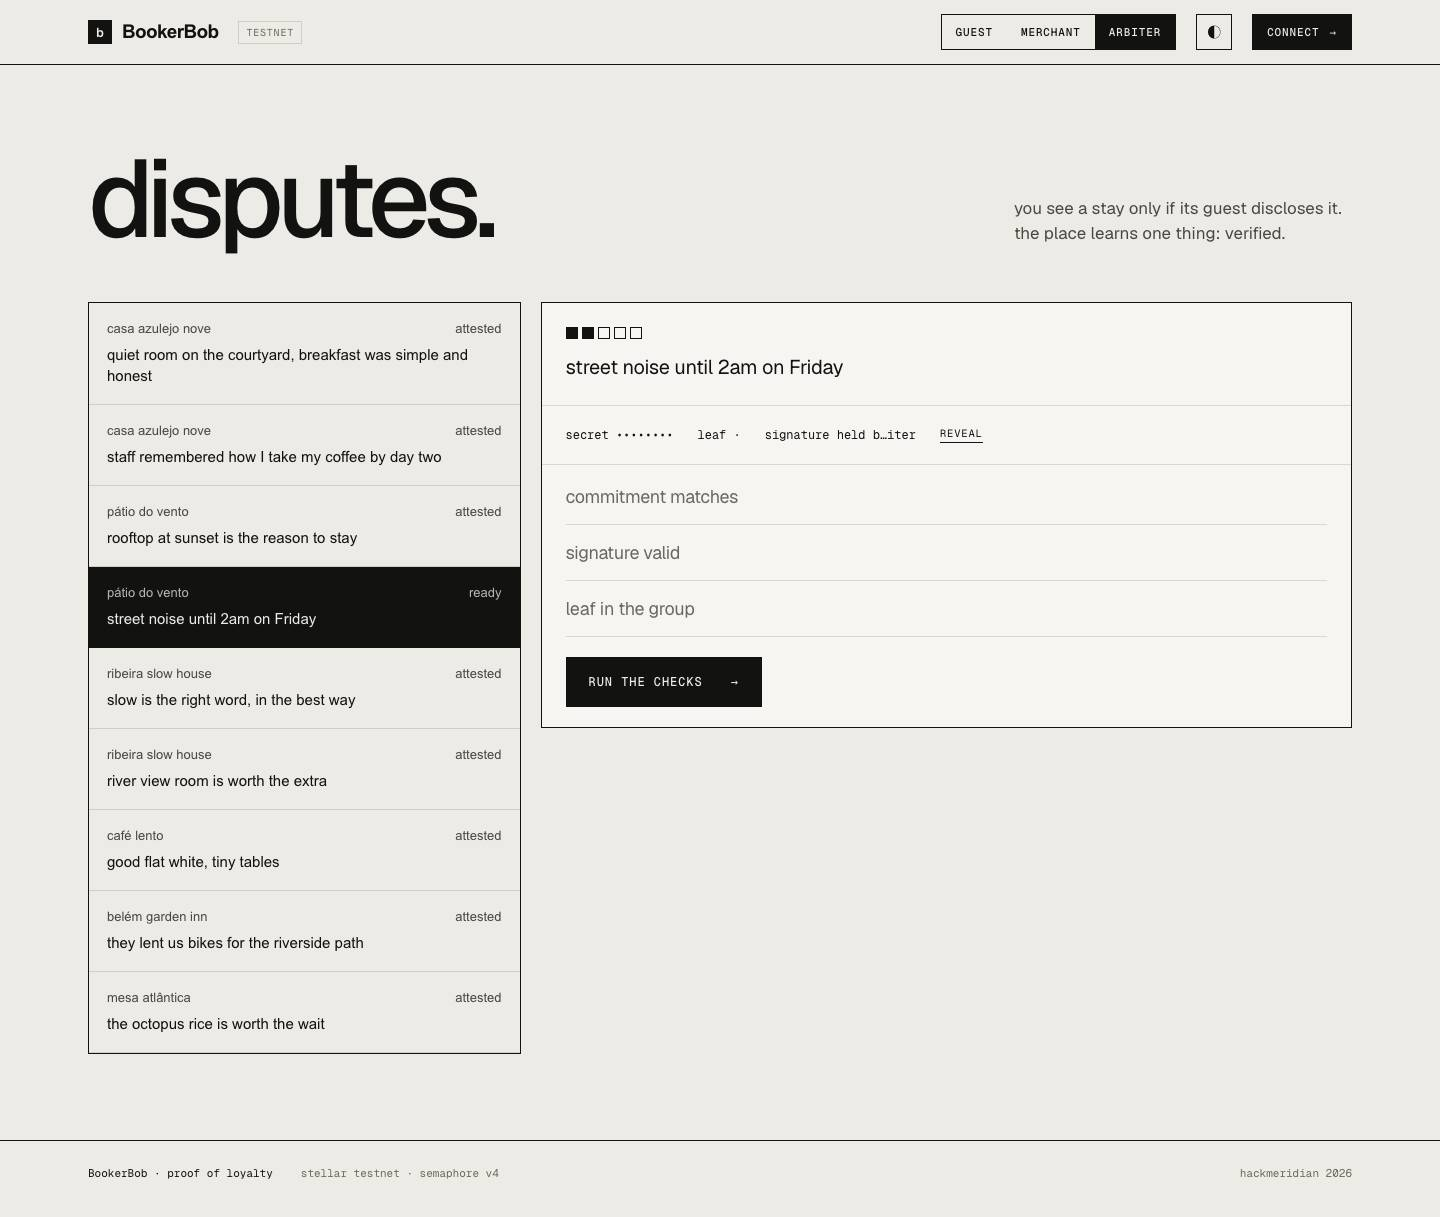
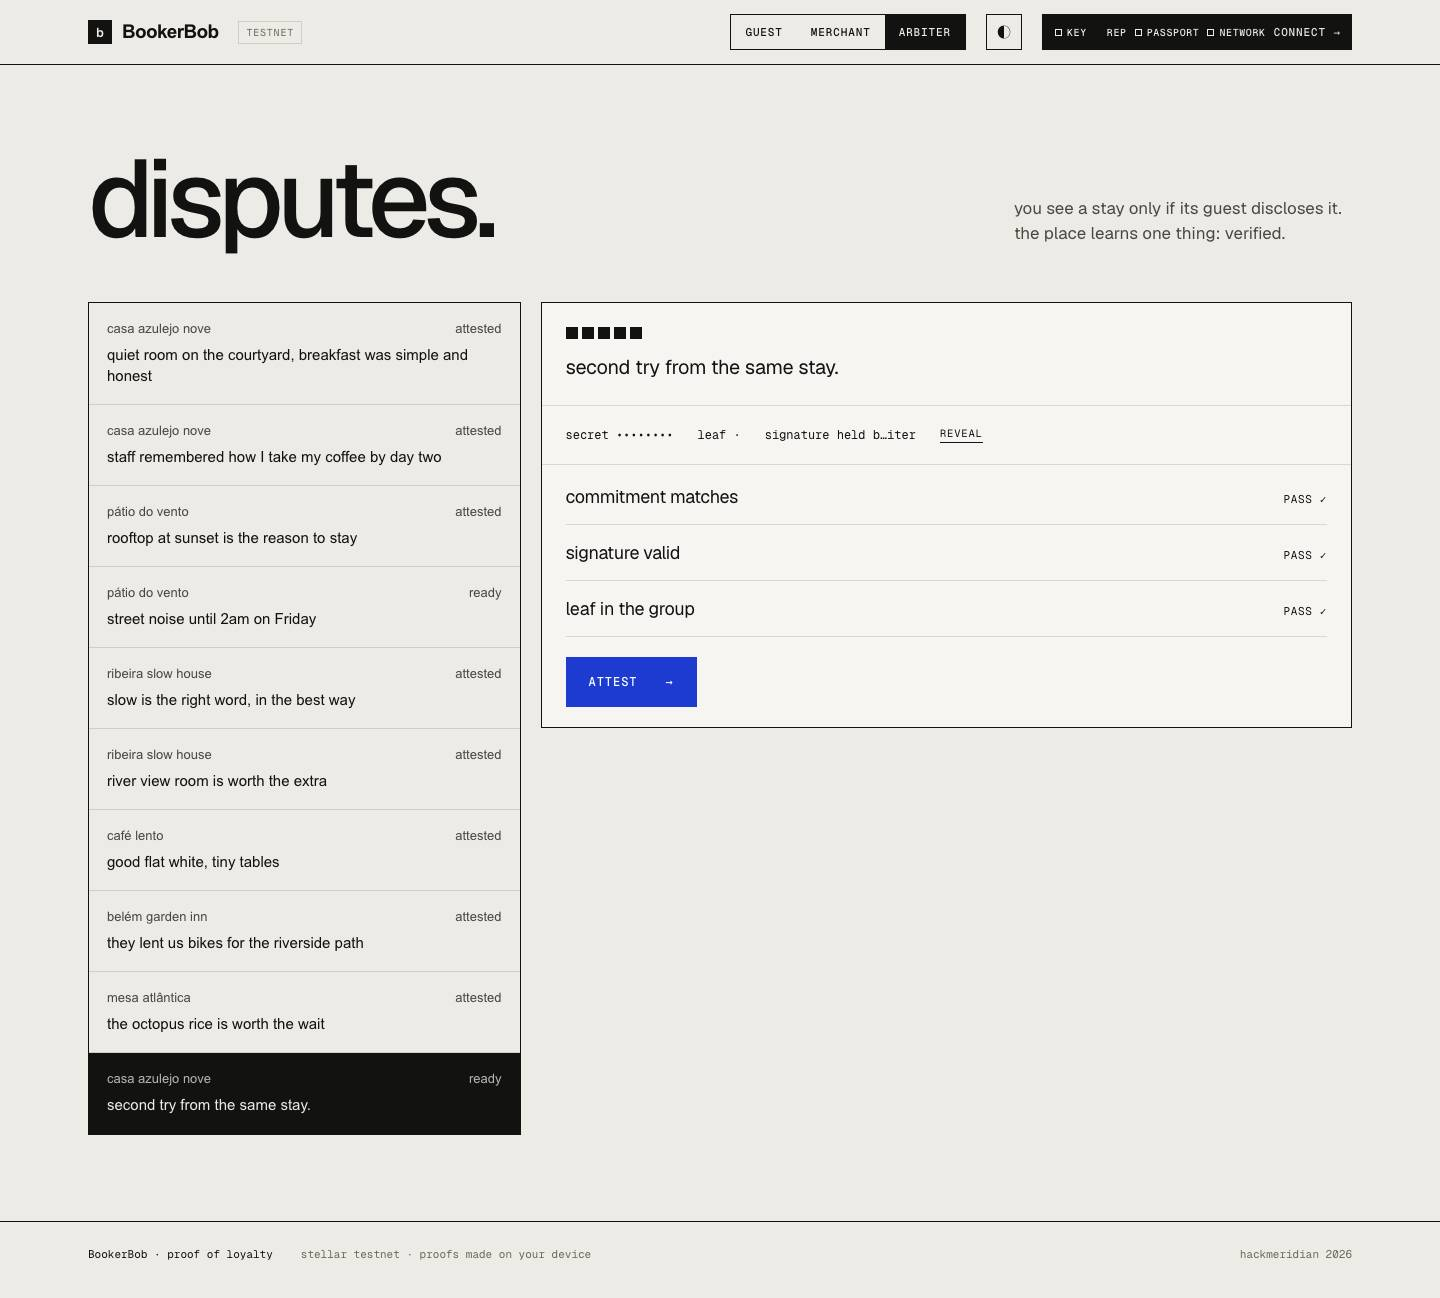
docs(design-parity): remaining real flows; tree capacity and redacted package fixes
Book, review, rejected double review, dispute, disclose, arbiter checks,
attest and the error screen, all driven for real on testnet, with
design/real pairs and tx hashes in the README. The desk's customer-group
label uses the real capacity, and the arbiter's redacted package words are
no longer cut like hashes (index.html edits 9 and 10).

diff --git a/site/public/index.html b/site/public/index.html
@@ -1162,7 +1162,7 @@ class Component extends DCLogic {
       kind: P.kind, name: P.name, area: P.area.toLowerCase(), note: P.note, isReal: !!P.real,
       isHotel: hotel, isShop: P.kind === 'shop', isCafe: P.kind === 'café', offerTitle: { hotel: 'rooms', shop: 'the product', 'café': 'menu' }[P.kind] || '',
       hasScore: P.review_count > 0, noScore: !P.review_count, score: this.score(P) || '', reviewCount: P.review_count ? `${P.review_count} proven · ${P.verified_count} verified` : 'none yet',
-      groupSize: String(P.group_size), groupWord: this.groupWord(P, P.group_size), groupAria: `${P.group_size} of 32`, noun: this.noun(P), cap: '−' + c.pol.max_bps / 100 + '%',
+      groupSize: String(P.group_size), groupWord: this.groupWord(P, P.group_size), groupAria: `${P.group_size} of ${(this.m && this.m.TREE_CAP) || 32}`, noun: this.noun(P), cap: '−' + c.pol.max_bps / 100 + '%',
       noReviewsText: P.real ? 'real purchases only, so the first one will be real too.' : 'the first one will carry a proof.',
       verbTitle: { book: 'book', buy: 'buy', order: 'order' }[v],
     };
@@ -1333,7 +1333,7 @@ class Component extends DCLogic {
         input: dk.input, scanning: dk.scanning, scanLabel: dk.scanning ? 'stop' : 'scan qr',
         canSubmit: dk.phase !== 'submitting', submitting: dk.phase === 'submitting', success: dk.phase === 'success', notSuccess: dk.phase !== 'success', error: dk.phase === 'error',
         errHead: dErr ? dErr.h : '', errBody: dErr ? dErr.b : '', leafIdx: newIdx >= 0 ? String(newIdx + 1) : '',
-        root: P0 ? this.short(P0.roots[P0.roots.length - 1], 8, 6) : '', txUrl: dTx ? dTx.url : '', treeLabel: P0 ? `${P0.group_size} of 32` : '',
+        root: P0 ? this.short(P0.roots[P0.roots.length - 1], 8, 6) : '', txUrl: dTx ? dTx.url : '', treeLabel: P0 ? `${P0.group_size} of ${(this.m && this.m.TREE_CAP) || 32}` : '',
       },
       leaves: Array.from({ length: 32 }, (_, i) => { const f = P0 && i < P0.group_size, nw = i === newIdx; return { bg: nw ? 'var(--accent)' : f ? 'var(--ink)' : 'transparent', bd: nw ? 'var(--accent)' : f ? 'var(--ink)' : 'var(--rule-soft)' }; }),
       onDeskInput: e => this.setDesk({ input: e.target.value, detected: false }), deskScan: this.deskScan,
@@ -1379,7 +1379,7 @@ class Component extends DCLogic {
     const sd = s.disputes.find(x => x.id === ar.sel), sr = sd ? (s.reviews[sd.hotel] || []).find(x => x.id === sd.reviewId) : null, pk = sd && sd.package;
     const ad = {
       has: !!sd, awaiting: !!sd && sd.status === 'awaiting', hasPkg: !!pk, stars: this.stars(sr ? sr.rating : 0), aria: sr ? sr.rating + ' of 5' : '', text: sr ? (s.texts[sr.content_hash] || 'text unavailable') : '',
-      secret: pk ? (ar.reveal ? this.short(pk.secret, 10, 6) : '••••••••') : '', sig: pk ? this.short(pk.signature, 6, 4) : '', leaf: pk ? String(pk.leafIndex) : '', revealLabel: ar.reveal ? 'hide' : 'reveal',
+      secret: pk ? (ar.reveal ? (String(pk.secret).startsWith('0x') ? this.short(pk.secret, 10, 6) : pk.secret) : '••••••••') : '', sig: pk ? (String(pk.signature).startsWith('0x') ? this.short(pk.signature, 6, 4) : pk.signature) : '', leaf: pk ? String(pk.leafIndex) : '', revealLabel: ar.reveal ? 'hide' : 'reveal',
     };
     const attested = !!sd && sd.status === 'attested', chk = attested ? ['ok', 'ok', 'ok'] : ar.checks;
     const checks = ['commitment matches', 'signature valid', 'leaf in the group'].map((label, i) => ({ label, status: { wait: '', active: 'checking', ok: 'pass ✓', fail: 'fail' }[chk[i]], color: chk[i] === 'active' ? 'var(--accent)' : chk[i] === 'fail' ? 'var(--warn)' : 'var(--ink)', labelColor: chk[i] === 'wait' ? 'var(--ink-3)' : 'var(--ink)' }));

diff --git a/docs/design-parity/README.md b/docs/design-parity/README.md
@@ -34,3 +34,20 @@ Verdict per diff: **data** = the real data differs (expected), **craft** = the l
 1. **`/api/cosign` rejects every server-priced cart (blocking).** The browser's stellar-sdk signs auth entries with a `soroban_authorization_with_address` preimage, while `server/src/catalog.ts` `cosign()` (line 53) reads only `soroban_authorization` / `sorobanAuthorization`, so `fn` is undefined and it throws BadParams. Fix: `const auth = plain.soroban_authorization ?? plain.sorobanAuthorization ?? plain.soroban_authorization_with_address`. Affected: hotel bookings over more than one night (the design's default is 2), café menus, any cart that isn't the single list price.
 2. **`/api/config` takes 2.5 to 6.4 s per request.** It reads every merchant one by one to build `demoMerchants`, with no cache. It gates the first paint (the contract id comes from it). Fix: cache it, or `Promise.all`.
 3. **Review tx hashes.** Reviews posted outside the backend have `txHash: null`, and the design links them anyway. A backfill (or a guard in index.html) removes the dead link.
+
+## Remaining flows, driven for real (item 4)
+
+All flows below ran in one browser (passkey through a CDP virtual authenticator) against Stellar testnet.
+
+| Flow | Real result | Pair |
+|---|---|---|
+| book (Casa Azulejo Nove, 1 night) | paid 110.00, tx 36d6f73df268816516f012ec4007fd12227bd6939f28086543765c05c0bd6c56; the pass appears in my passes | `flow-success-book-real` vs `flow-success-design` |
+| review | posted r-67 with a proof made in the browser, tx 2c02c7ae37d603954c6e95f910f1cc1a942ba1eb34e42d341c5ce87a657b2954 | `review-real` / `flow-review-success-real` vs `review-design` |
+| rejected double review | a second review from the same stay is refused by the contract (`NullifierUsed`), shown as "this stay already reviewed." | `flow-rejected-real` vs `flow-rejected-design` |
+| hotel disputes the review | the card shows "disputed · waiting on the guest" (off chain, no tx by design) | `merchant-hotel-disputed-real` vs `merchant-hotel-design` |
+| guest discloses to the arbiter only | dispute d-67 becomes "disclosed"; the package stays with the arbiter | `passes-disclosed-real` vs `passes-design` |
+| arbiter: 3 checks | commitment matches, signature valid, leaf in the group: all pass (checked on the server) | `arbiter-real` vs `arbiter-design` |
+| attest | attested, tx a7374c889eeed5d948d59f4ec4c933421af8cc128772fd1597aa547ff0a3076a; the review now shows "verified stay" | `arbiter-attested-real` |
+| error screen | a cart the server cannot price (an item not in the catalog) fails as `BadParams`; the design's "that did not look right" screen with retry | `flow-error-real` vs `flow-error-design` |
+
+Fixed while driving: the arbiter's redacted package words were cut like hashes ("held b…iter"), and the desk said "of 32" (the real tree holds 1024). Both are listed index.html edits (9, 10).

diff --git a/docs/design-binding.md b/docs/design-binding.md
@@ -10,6 +10,8 @@ The Claude Design deliverable `Proof of Loyalty v2.dc.html` is served byte-exact
 6. the place picker shows a "connect REP for +5%" link under an unearned verified-traveler perk, which opens the popover at REP.
 7. a review whose transaction hash is unknown shows a plain "proven stay" badge instead of a link to `/tx/null`.
 8. **no zeros before data**: until the component is `ready` (places loaded), the kind counts in the hero and the category tabs and the "my passes" count render empty instead of 0, and the ranking shows one line in the design's rank-line style, "reading the proven reviews". After the load, real counts, and an empty state only when there is truly nothing.
+9. the customer-group label reads "N of 1024" (the real tree capacity, pol-real `TREE_CAP`) instead of the hardcoded "of 32"; the 32-cell grid stays as drawn.
+10. the arbiter's package fields that are words ("held by the arbiter") are shown as they are, not cut like a hash.
 
 Sources and what they read:
 
